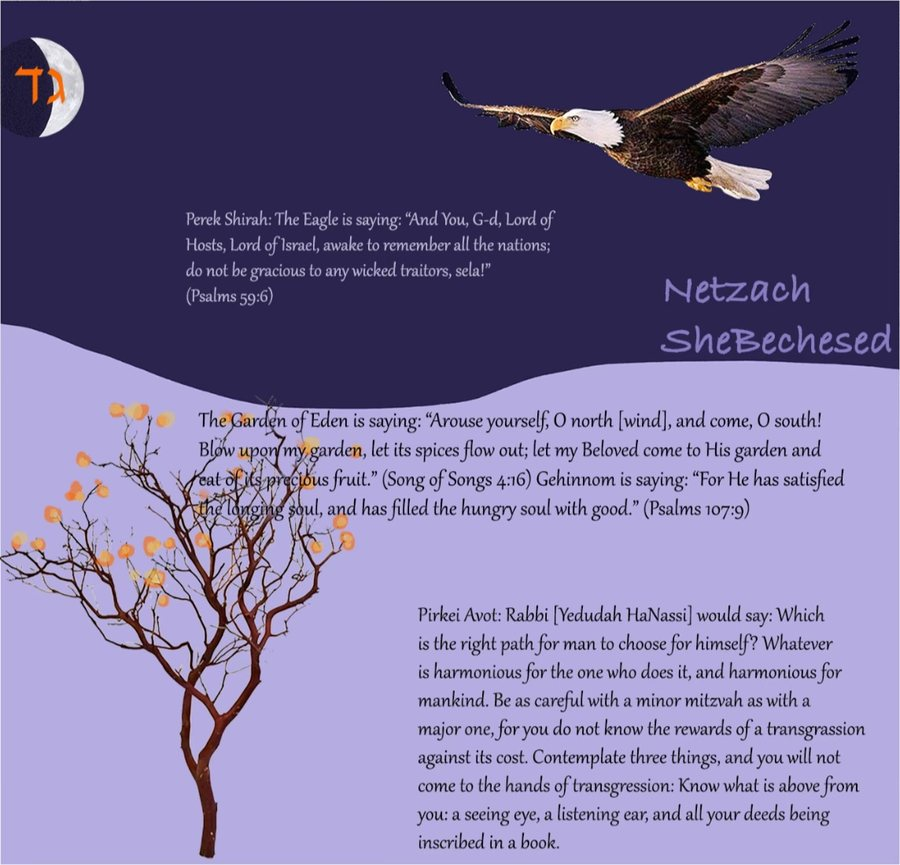
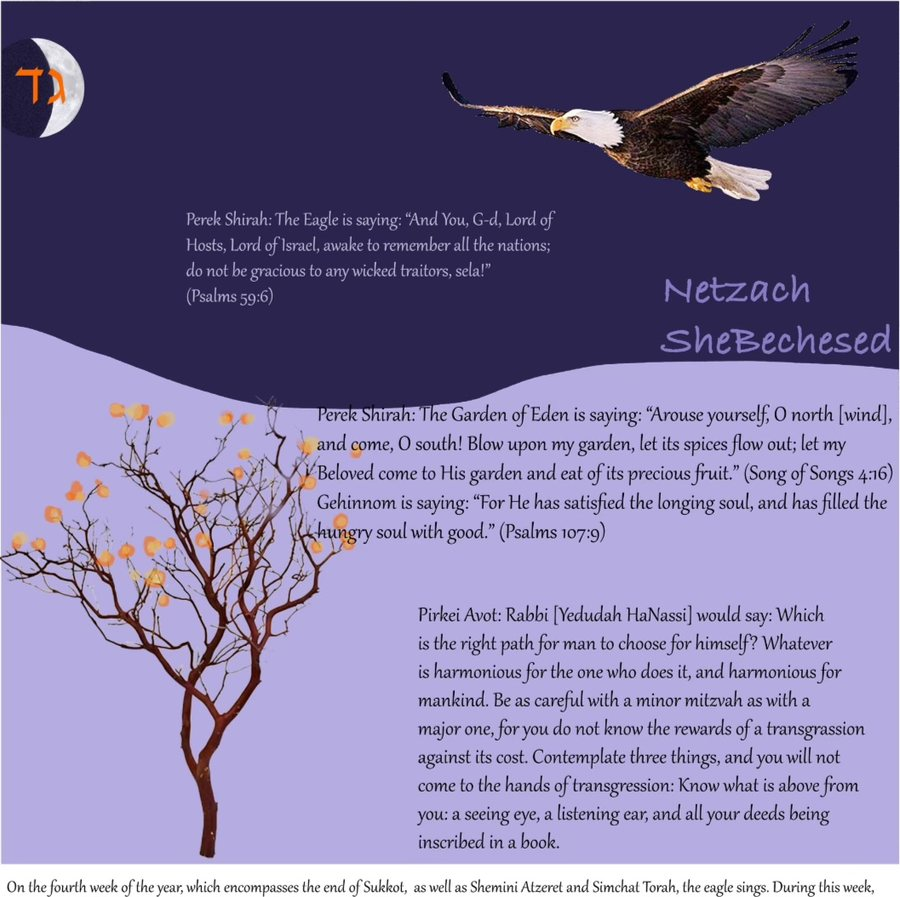
Replace week 4 with the revised Eagle page
The new version names the source of each song — "Perek Shirah: The
Garden of Eden is saying" where the first only said "The Garden of Eden
is saying" — so the page now attributes what it quotes.

Trimmed on import like the rest, and the declared height follows.

Claude-Session: https://claude.ai/code/session_01RS2FMfmK8R2uQnxc6BrjxF

diff --git a/index.html b/index.html
@@ -9761,7 +9761,7 @@ hr.wr-hr{border:none;border-top:1px solid var(--border);margin:14px 0;}
     '1':   [900, 1003],
     '2':   [900, 880],
     '3':   [900, 861],
-    '4':   [900, 865],
+    '4':  [900, 897],
     '5':   [900, 908],
     '50':  [900, 897],
     '51':  [900, 868],
